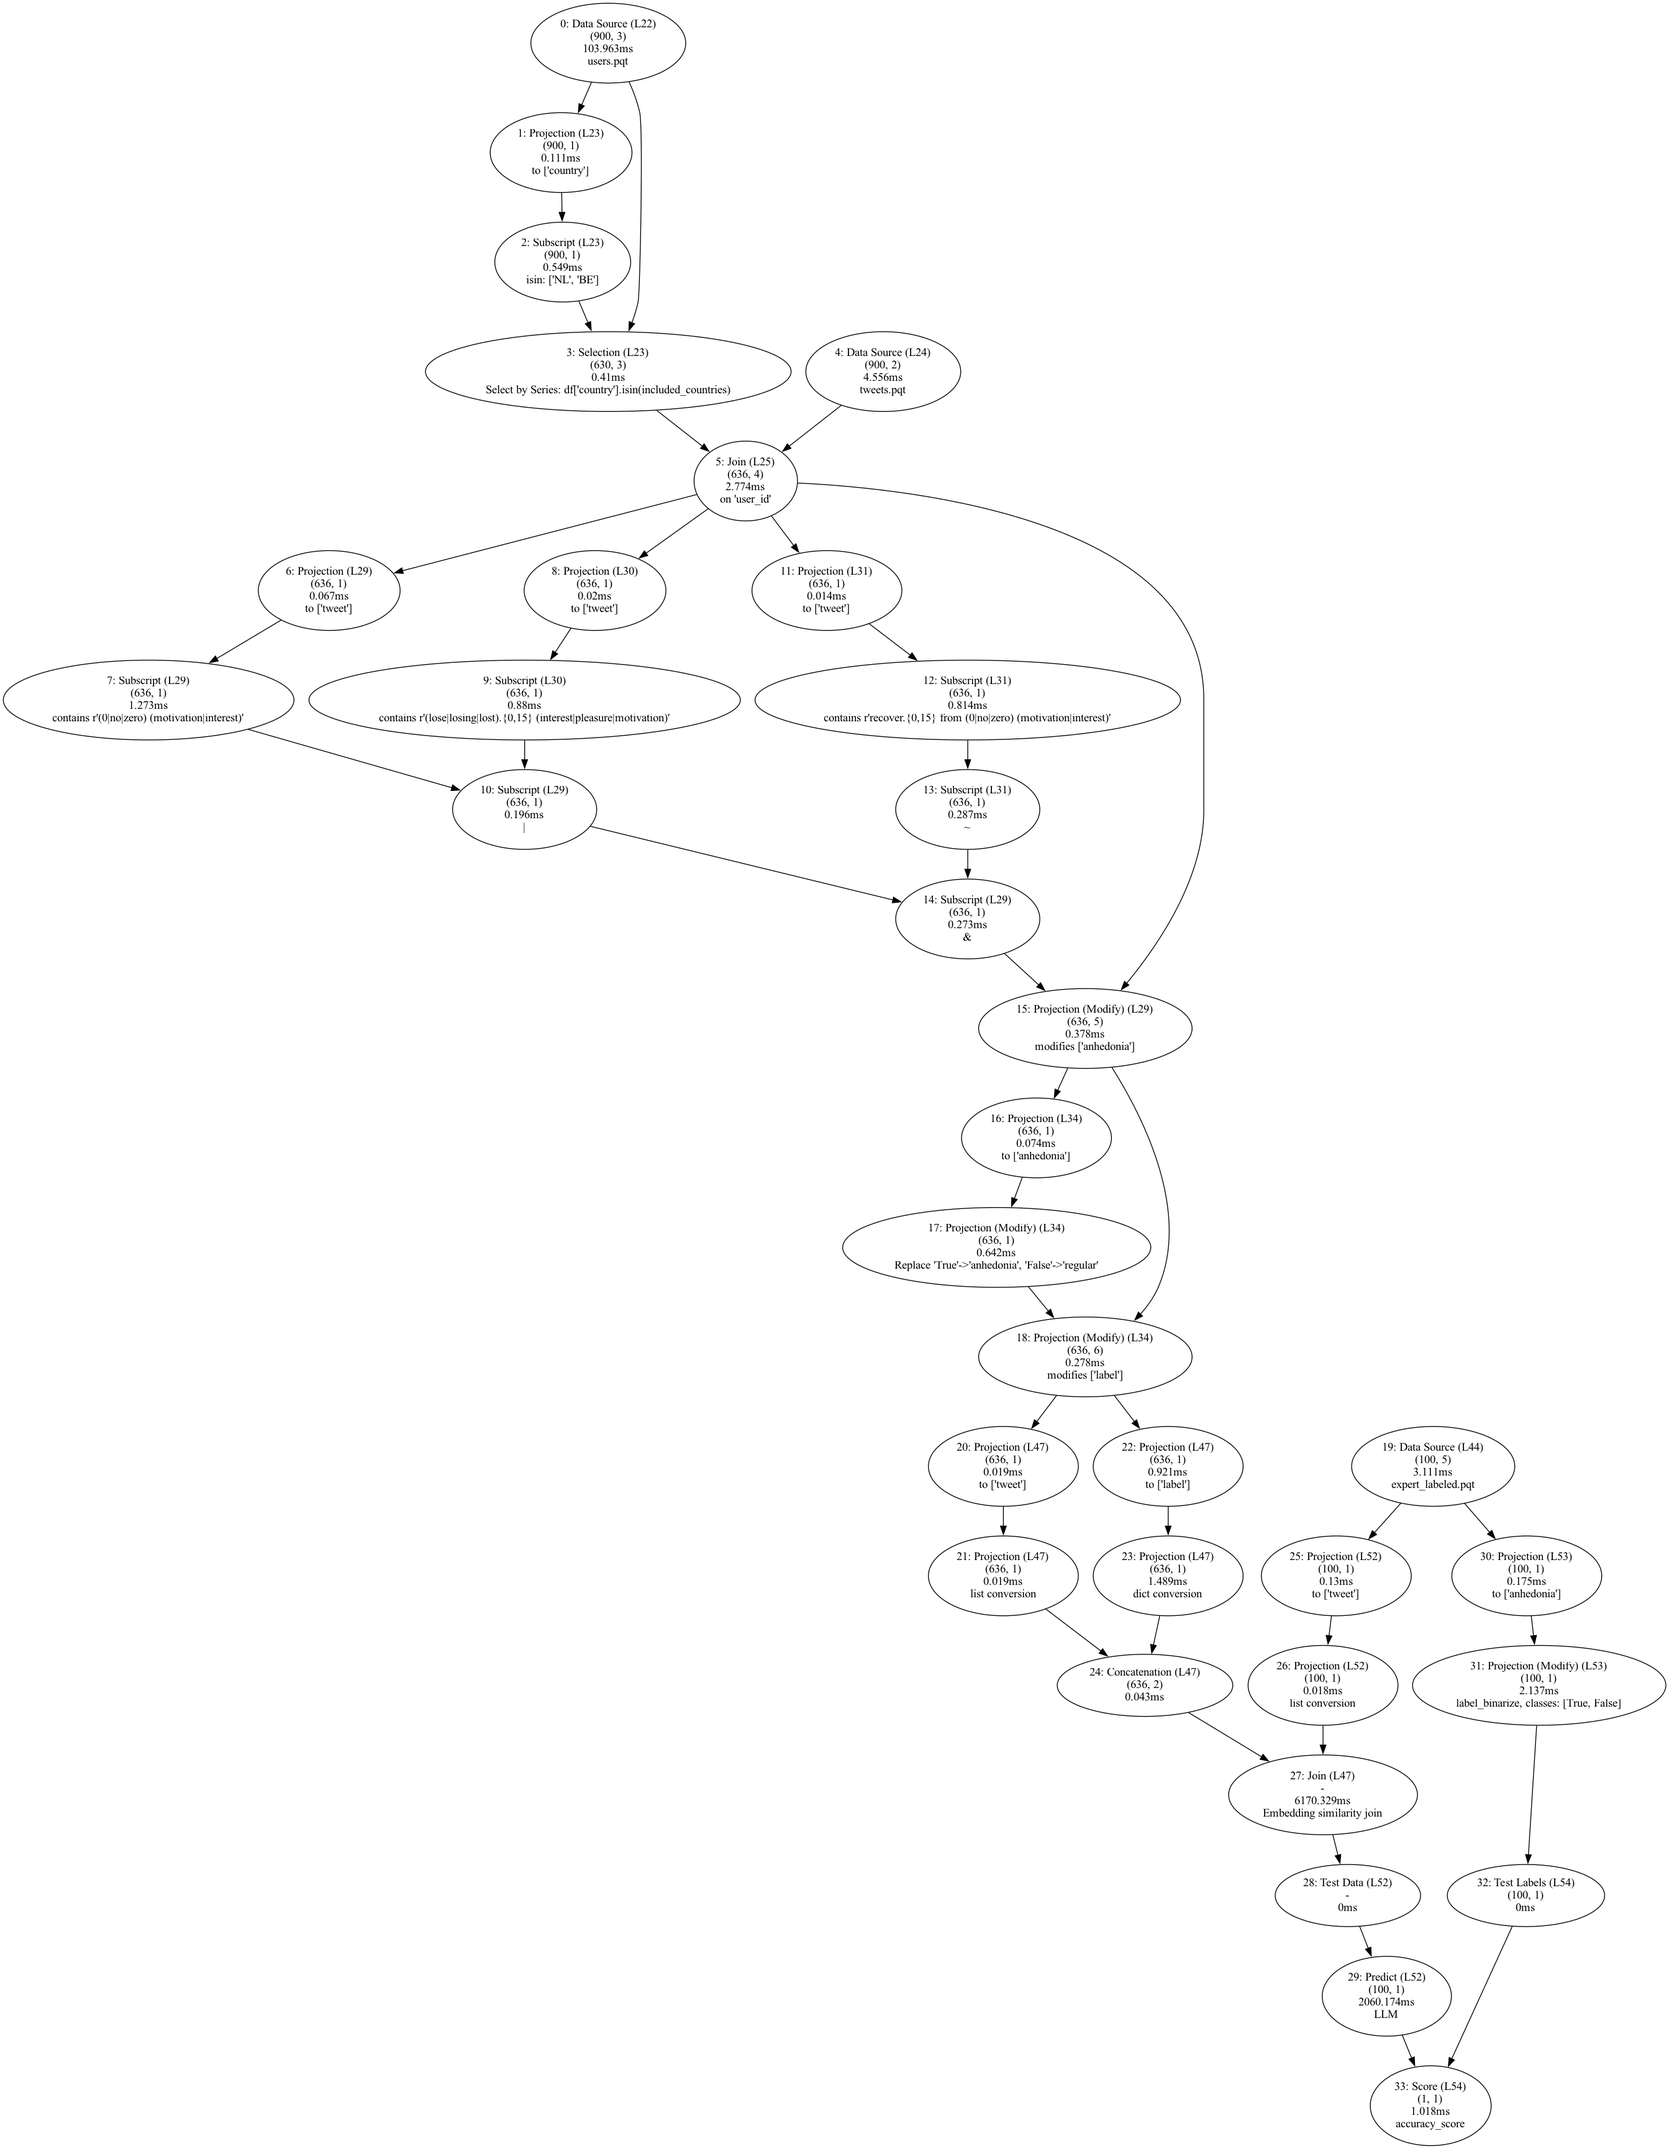
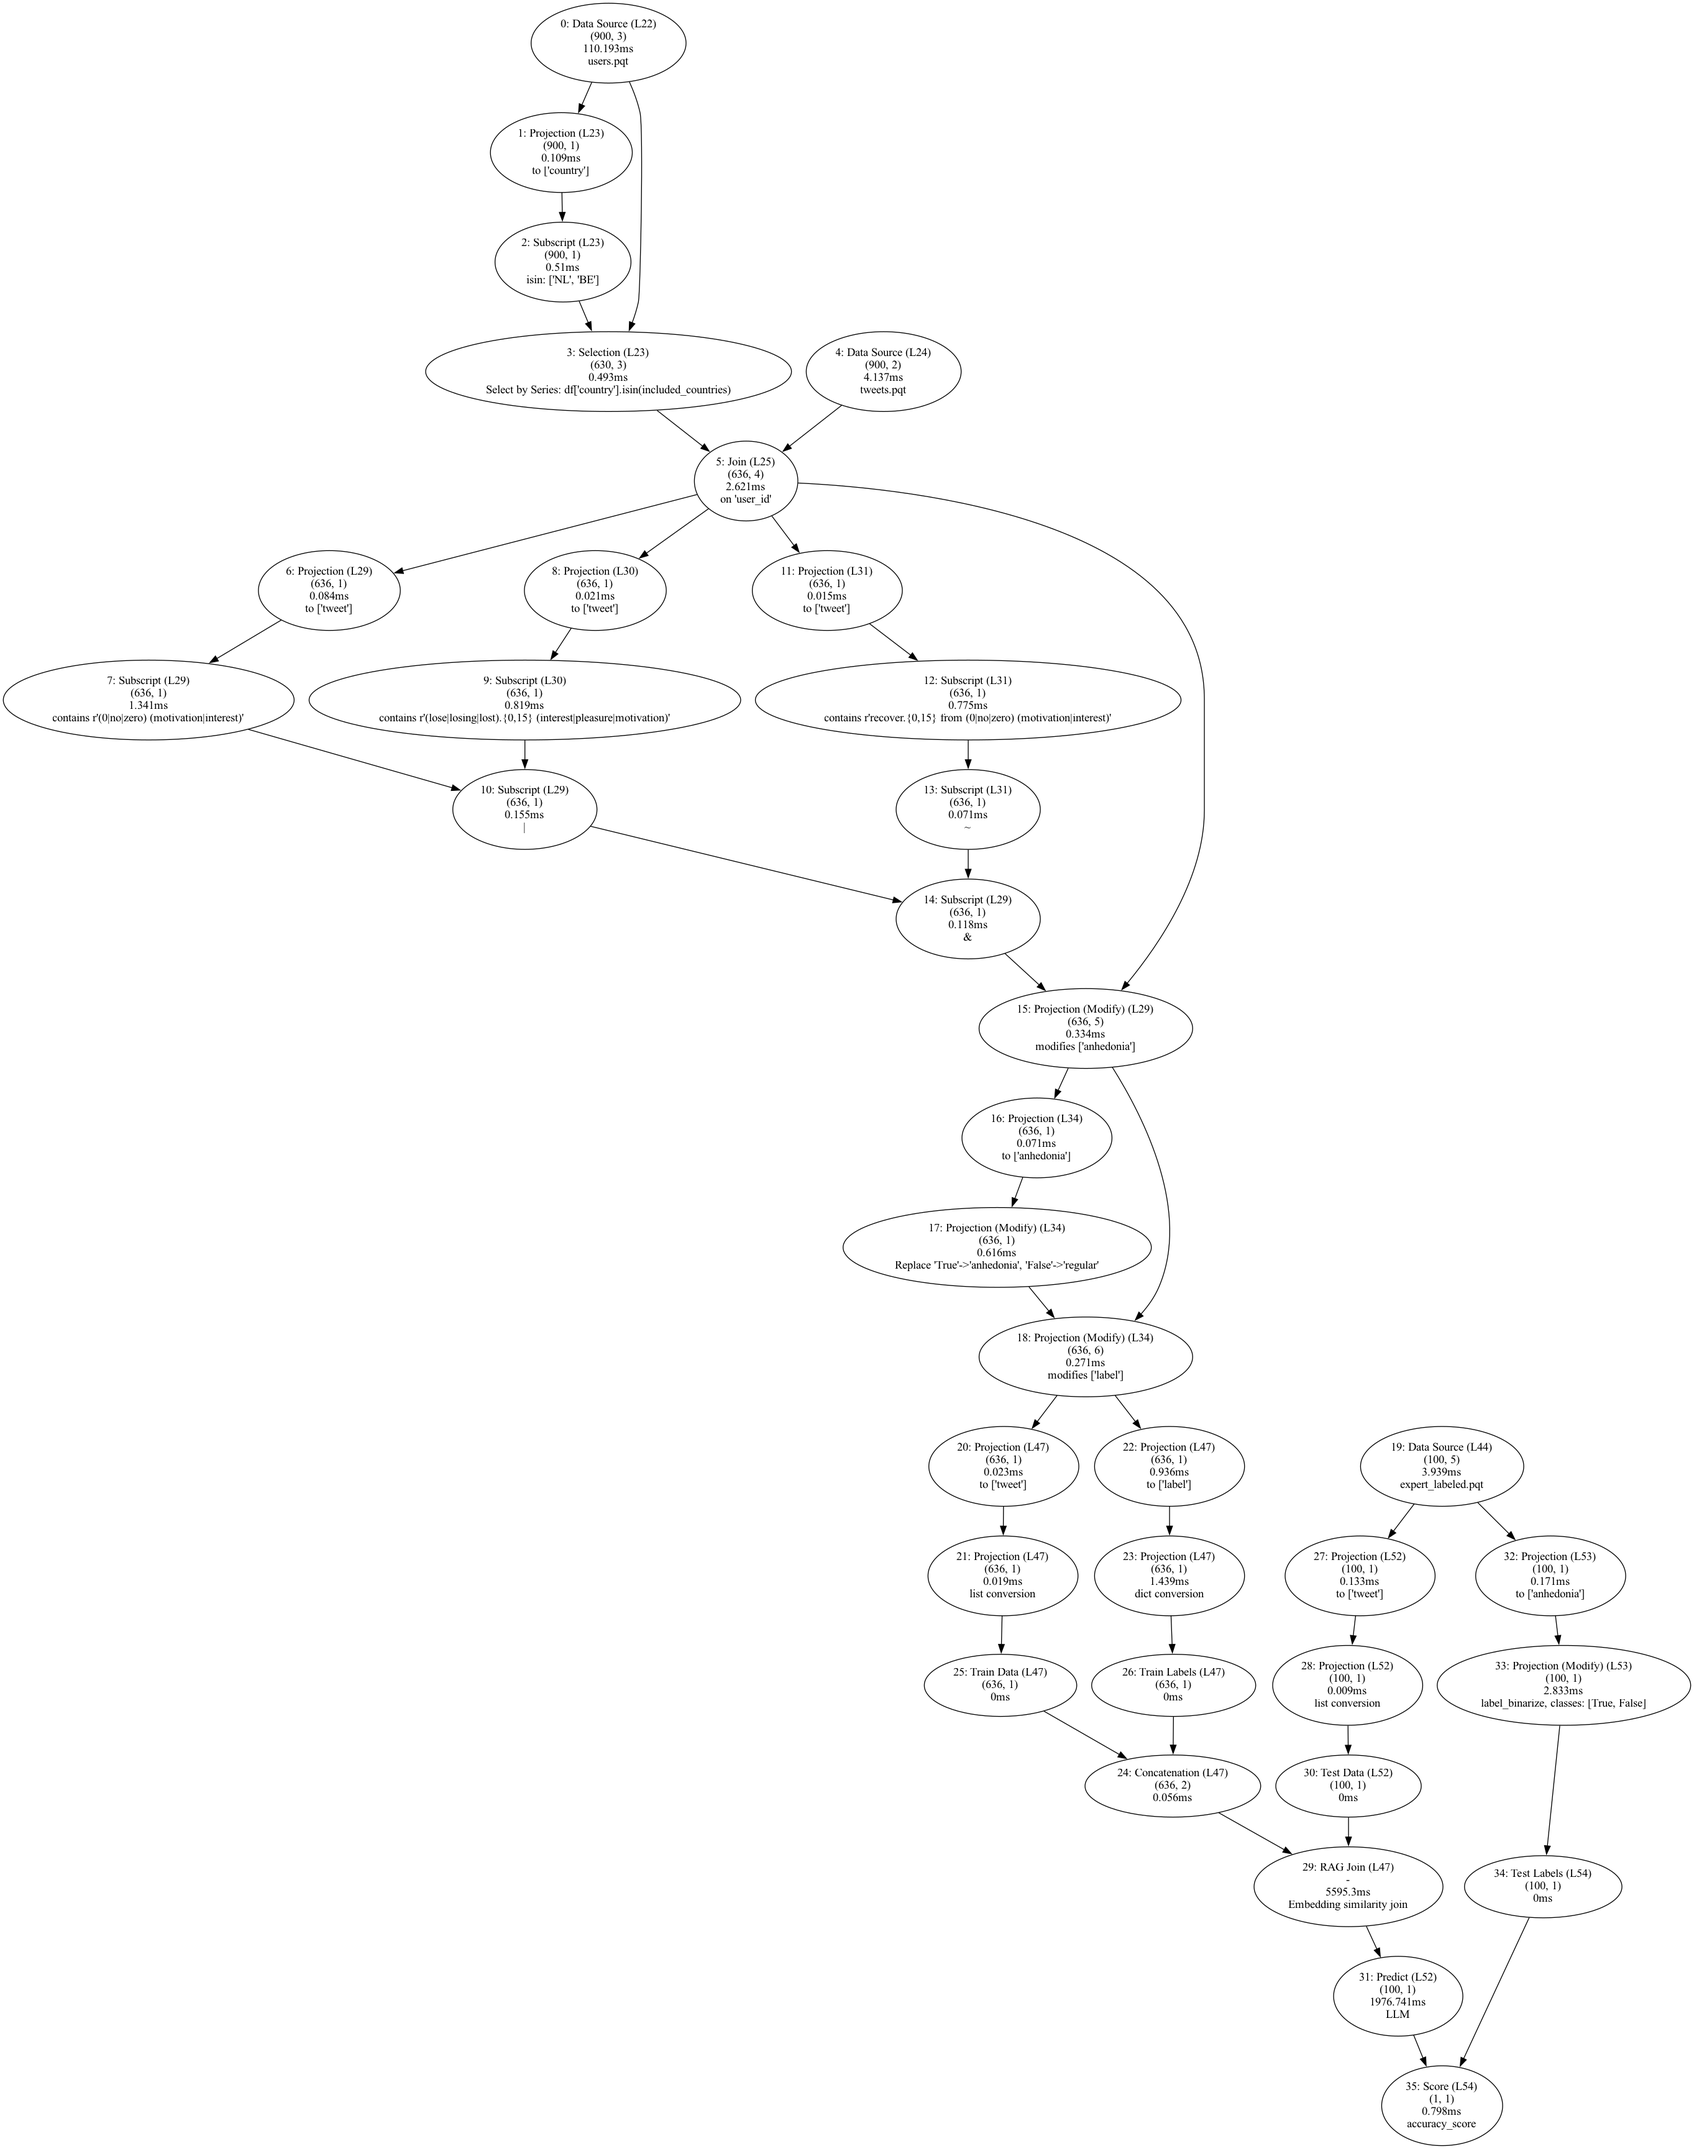
WIP: DAG improvements

diff --git a/mlidea/monkeypatching/_patch_langchain.py b/mlidea/monkeypatching/_patch_langchain.py
@@ -2,6 +2,8 @@
 Monkey patching for sklearn
 """
 from __future__ import annotations
+
+import dataclasses
 from functools import partial
 from typing import cast
 
@@ -23,13 +25,14 @@ from langchain_core.runnables.utils import (
     Input, Output,
 )
 
-from mlidea import DagNode, BasicCodeLocation, DagNodeDetails, FunctionInfo, OperatorContext, OperatorType
+from mlidea import DagNode, BasicCodeLocation, DagNodeDetails, FunctionInfo, OperatorContext, OperatorType, \
+    CodeReference
 from mlidea.execution._pipeline_executor import singleton
 from mlidea.execution._stat_tracking import capture_optimizer_info
 from mlidea.monkeypatching._mlinspect_ndarray import MlideaChromaVectorStoreRetrieverPlaceHolder
 from mlidea.monkeypatching._monkey_patching_utils import execute_patched_func, get_optional_code_info_or_none, \
     FunctionCallResult, add_dag_node, get_input_info, execute_patched_func_indirect_allowed_with_op_id, \
-    add_test_data_dag_node
+    add_test_data_dag_node, add_train_data_node, add_train_label_node
 
 
 class LangchainCallInfo:
@@ -67,37 +70,36 @@ class RunnableSequencePatching:
                 retriever_with_info = self.find_retriever()
                 input_info_a = get_input_info(retriever_with_info[3], caller_filename, lineno, function_info_if_error,
                                               optional_code_reference, optional_source_code)
-                input_info_b = get_input_info(inputs, caller_filename, lineno, function_info_if_error,
-                                              optional_code_reference, optional_source_code)
-                operator_context = OperatorContext(OperatorType.RAG_JOIN, input_info_a.dag_node.operator_info.function_info)
+
+                _, test_data_node, test_data_result = add_test_data_dag_node(
+                    inputs, input_info_a.dag_node.operator_info.function_info, lineno, optional_code_reference,
+                    optional_source_code, caller_filename)
+
+                operator_context = OperatorContext(OperatorType.RAG_JOIN,
+                                                   input_info_a.dag_node.operator_info.function_info)
 
                 processing_func = partial(RunnableSequencePatching.execute_retriever, retriever_with_info)
                 optimizer_info, result = capture_optimizer_info(partial(processing_func, retriever_with_info[3],
-                                                                        inputs))
+                                                                        test_data_result))
                 description = "Embedding similarity join"
-                dag_node = DagNode(op_id,
-                                   input_info_a.dag_node.code_location,
-                                   operator_context,
-                                   DagNodeDetails(description, input_info_a.dag_node.details.columns, optimizer_info),
-                                   input_info_a.dag_node.optional_code_info,
-                                   processing_func)
+                dag_node_rag = DagNode(op_id,
+                                       input_info_a.dag_node.code_location,
+                                       operator_context,
+                                       DagNodeDetails(description, input_info_a.dag_node.details.columns,
+                                                      optimizer_info),
+                                       input_info_a.dag_node.optional_code_info,
+                                       processing_func)
                 function_call_result = FunctionCallResult(result)
-                add_dag_node(dag_node, [input_info_a.dag_node, input_info_b.dag_node], function_call_result)
+                add_dag_node(dag_node_rag, [input_info_a.dag_node, test_data_node], function_call_result)
                 embedding_join_result = function_call_result.function_result
 
                 function_info = FunctionInfo('langchain_core.runnables.base', 'batch')
-                _, test_data_node, test_data_result = add_test_data_dag_node(embedding_join_result,
-                                                                             function_info,
-                                                                             lineno,
-                                                                             optional_code_reference,
-                                                                             optional_source_code,
-                                                                             caller_filename)
 
                 processing_func_predict = partial(
                     RunnableSequencePatching.execute_langchain_batch_with_preexecuted_retriever,
                     self, config, return_exceptions)
                 optimizer_info_predict, result_predict = capture_optimizer_info(partial(processing_func_predict,
-                                                                                        test_data_result))
+                                                                                        embedding_join_result))
                 operator_context_predict = OperatorContext(OperatorType.PREDICT, function_info)
                 dag_node_predict = DagNode(singleton.get_next_op_id(),
                                            BasicCodeLocation(caller_filename, lineno),
@@ -107,7 +109,7 @@ class RunnableSequencePatching:
                                                                           optional_source_code),
                                            processing_func_predict)
                 function_call_result = FunctionCallResult(result_predict)
-                add_dag_node(dag_node_predict, [test_data_node], function_call_result)
+                add_dag_node(dag_node_predict, [dag_node_rag], function_call_result)
                 llm_result = function_call_result.function_result
 
                 call_info_singleton.runnable_sequence_active = False
@@ -159,7 +161,8 @@ class RunnableSequencePatching:
         return found_retriever
 
     @staticmethod
-    def execute_langchain_batch_with_preexecuted_retriever(runnable_sequence, config, return_exceptions, found_retriever):
+    def execute_langchain_batch_with_preexecuted_retriever(runnable_sequence, config, return_exceptions,
+                                                           found_retriever):
         # pylint: disable=no-member
         retriever_step_num, retriever_step_name, retriever_step_result, inputs = found_retriever
         if not inputs:
@@ -226,6 +229,14 @@ class RunnableSequencePatching:
         return configs, run_managers
 
 
+@dataclasses.dataclass
+class CallerInfo:
+    mlinspect_caller_filename: str
+    mlinspect_lineno: int
+    mlinspect_optional_code_reference: CodeReference or None
+    mlinspect_optional_source_code: str or None
+
+
 @gorilla.patches(community_vectorstores.Chroma)
 class ChromaPatching:
     """ Patches for sklearn """
@@ -241,15 +252,17 @@ class ChromaPatching:
 
         def execute_inspections(op_id, caller_filename, lineno, optional_code_reference, optional_source_code):
             function_info = FunctionInfo('langchain_community.vectorstores.Chroma', 'from_texts')
-            input_infos = []
+            input_dag_nodes = []
             if metadatas is None:
                 raise NotImplementedError("Vectorstore only supported in LLM+RAG scenarios with labels currently!")
-            input_info_X_train = get_input_info(texts, caller_filename, lineno, function_info,
-                                                optional_code_reference, optional_source_code)
-            input_infos.append(input_info_X_train)
-            input_info_y_train = get_input_info(metadatas, caller_filename, lineno, function_info,
-                                                optional_code_reference, optional_source_code)
-            input_infos.append(input_info_y_train)
+
+            caller_info = CallerInfo(caller_filename, lineno, optional_code_reference, optional_source_code)
+            _, train_data_node, train_data_result = add_train_data_node(caller_info, texts, function_info)
+            _, train_labels_node, train_labels_result = add_train_label_node(caller_info, metadatas,
+                                                                             function_info)
+
+            input_dag_nodes.append(train_data_node)
+            input_dag_nodes.append(train_labels_node)
 
             operator_context = OperatorContext(OperatorType.CONCATENATION, function_info)
 
@@ -270,7 +283,6 @@ class ChromaPatching:
                                DagNodeDetails(None, result.columns(), optimizer_info),
                                get_optional_code_info_or_none(optional_code_reference, optional_source_code),
                                processing_func)
-            input_dag_nodes = [input_info.dag_node for input_info in input_infos]
             function_call_result = FunctionCallResult(result)
             add_dag_node(dag_node, input_dag_nodes, function_call_result)
             new_result = function_call_result.function_result

diff --git a/mlidea/analysis/_analysis_utils.py b/mlidea/analysis/_analysis_utils.py
@@ -289,6 +289,7 @@ def find_where_to_apply_corruption_exactly(dag, first_op_requiring_corruption, o
         assert len(operator_parent_nodes) == 1
         operator_to_apply_corruption_after = operator_parent_nodes[0]
     elif first_op_requiring_corruption.operator_info.operator == OperatorType.CONCATENATION:
+        # FIXME: this should instead use the train data node that we should insert for RAG concat
         operator_parent_nodes = [parent for parent in operator_parent_nodes if column in parent.details.columns]
         assert len(operator_parent_nodes) == 1
         operator_to_apply_corruption_after = operator_parent_nodes[0]
@@ -311,6 +312,7 @@ def get_columns_used_as_feature(dag) -> list[str]:
                 transformer_parent = get_sorted_parent_nodes(dag, transformer)[-1]
                 feature_columns.update(transformer_parent.details.columns)
         else:
+            # FIXME: this should instead use the train data node that we should insert for RAG concat
             rag_concat_ops = find_nodes_by_type(dag, OperatorType.CONCATENATION)
             assert len(rag_concat_ops) == 1
             rag_concat_train_data_parent = get_sorted_parent_nodes(dag, rag_concat_ops[0])[0]

diff --git a/test/example_pipelines/test_anhedonia.py b/test/example_pipelines/test_anhedonia.py
@@ -43,4 +43,4 @@ def test_instrumented_llm_py_pipeline_runs():
     """
     dag = run_and_assert_all_op_outputs_inspected(ANHEDONIA_LLM_PY, None, ANHEDONIA_LLM_PNG,
                                                   [custom_monkeypatching])
-    assert len(dag) == 34
+    assert len(dag) == 36
